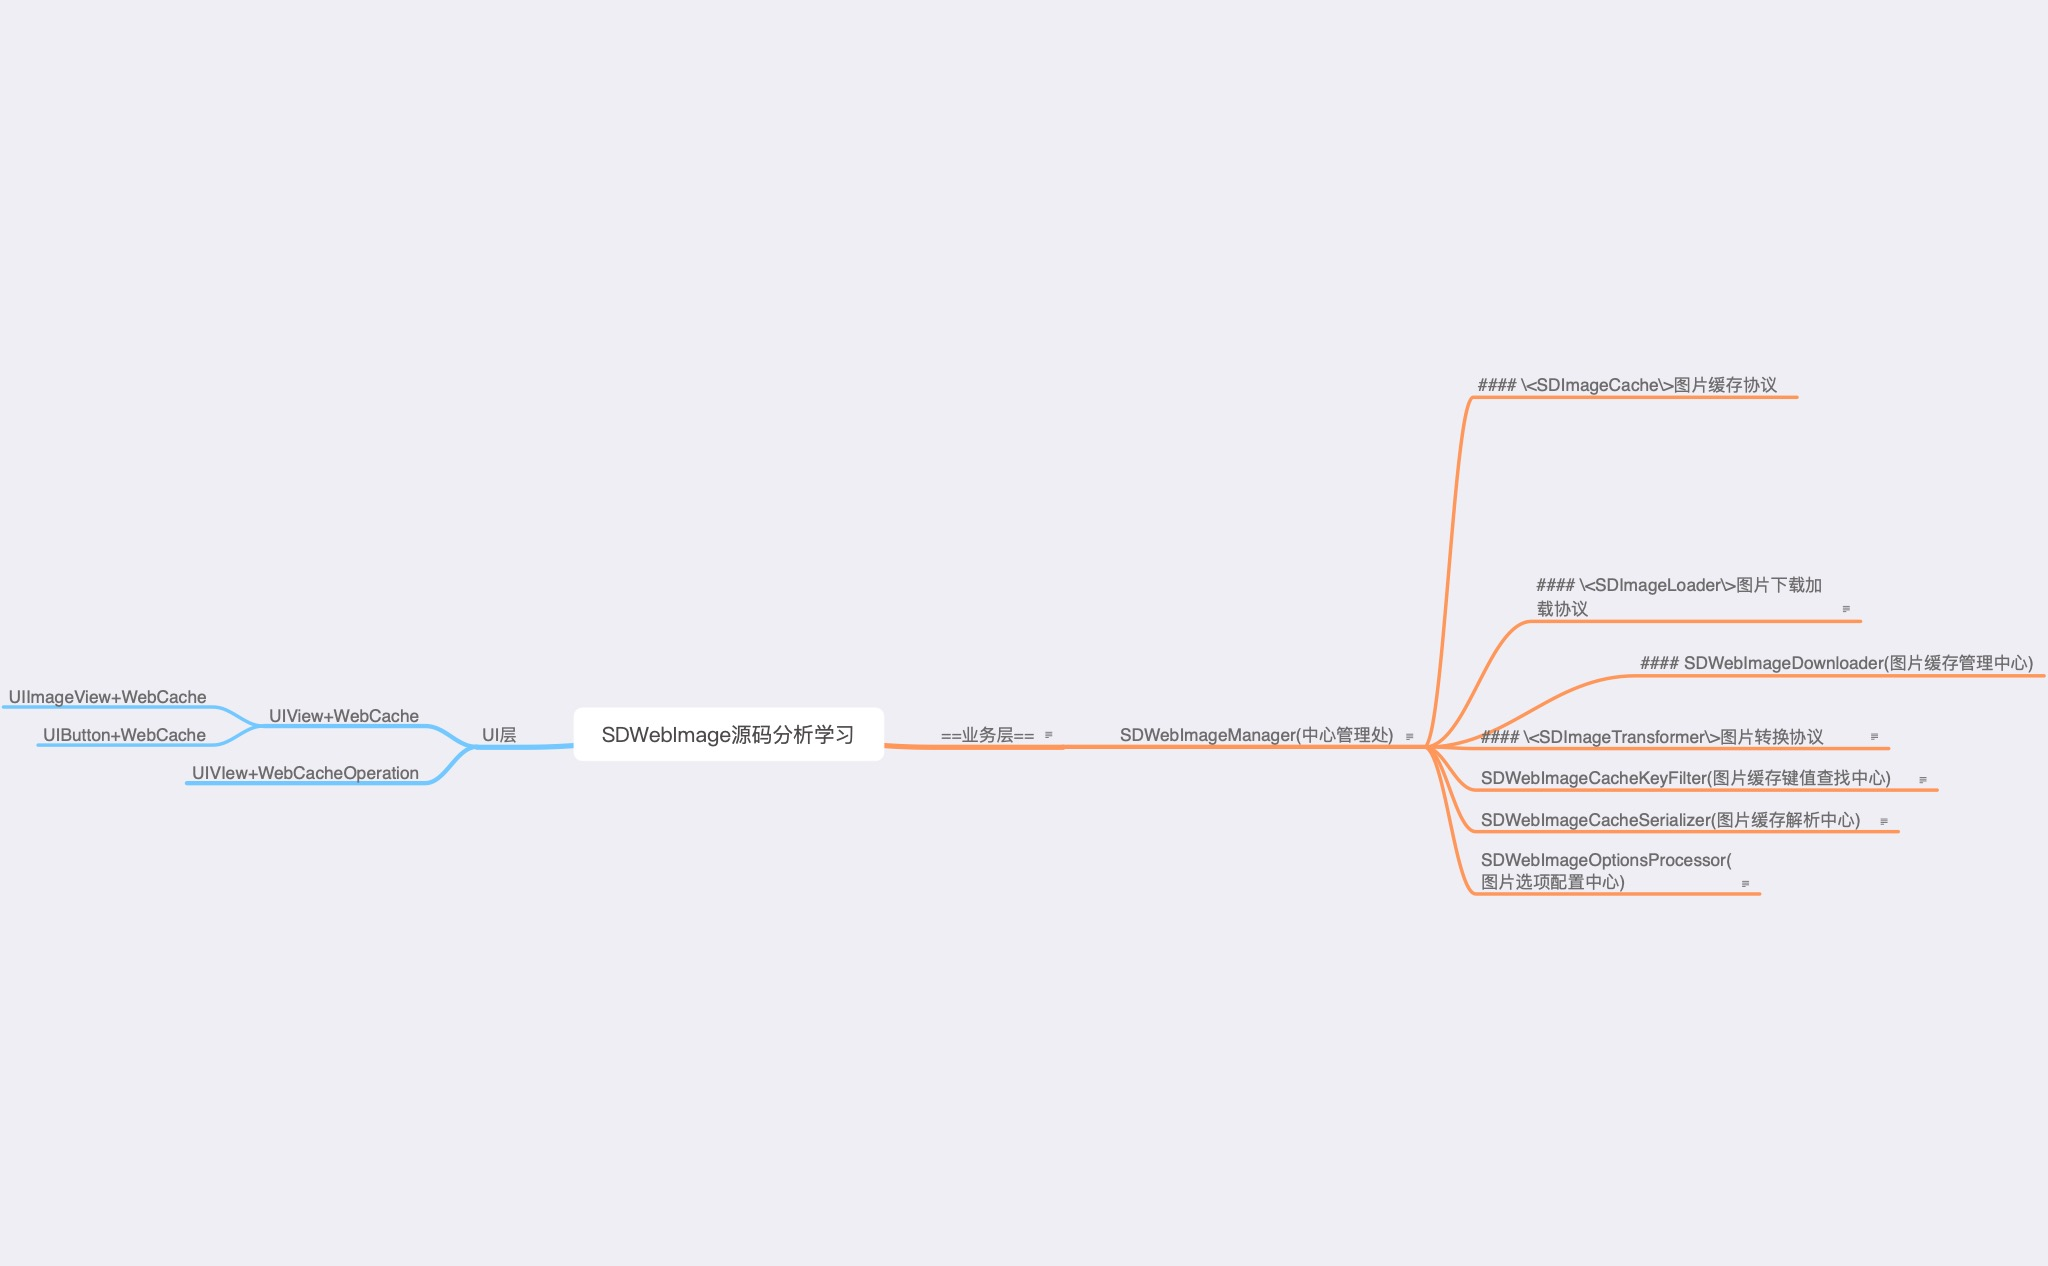
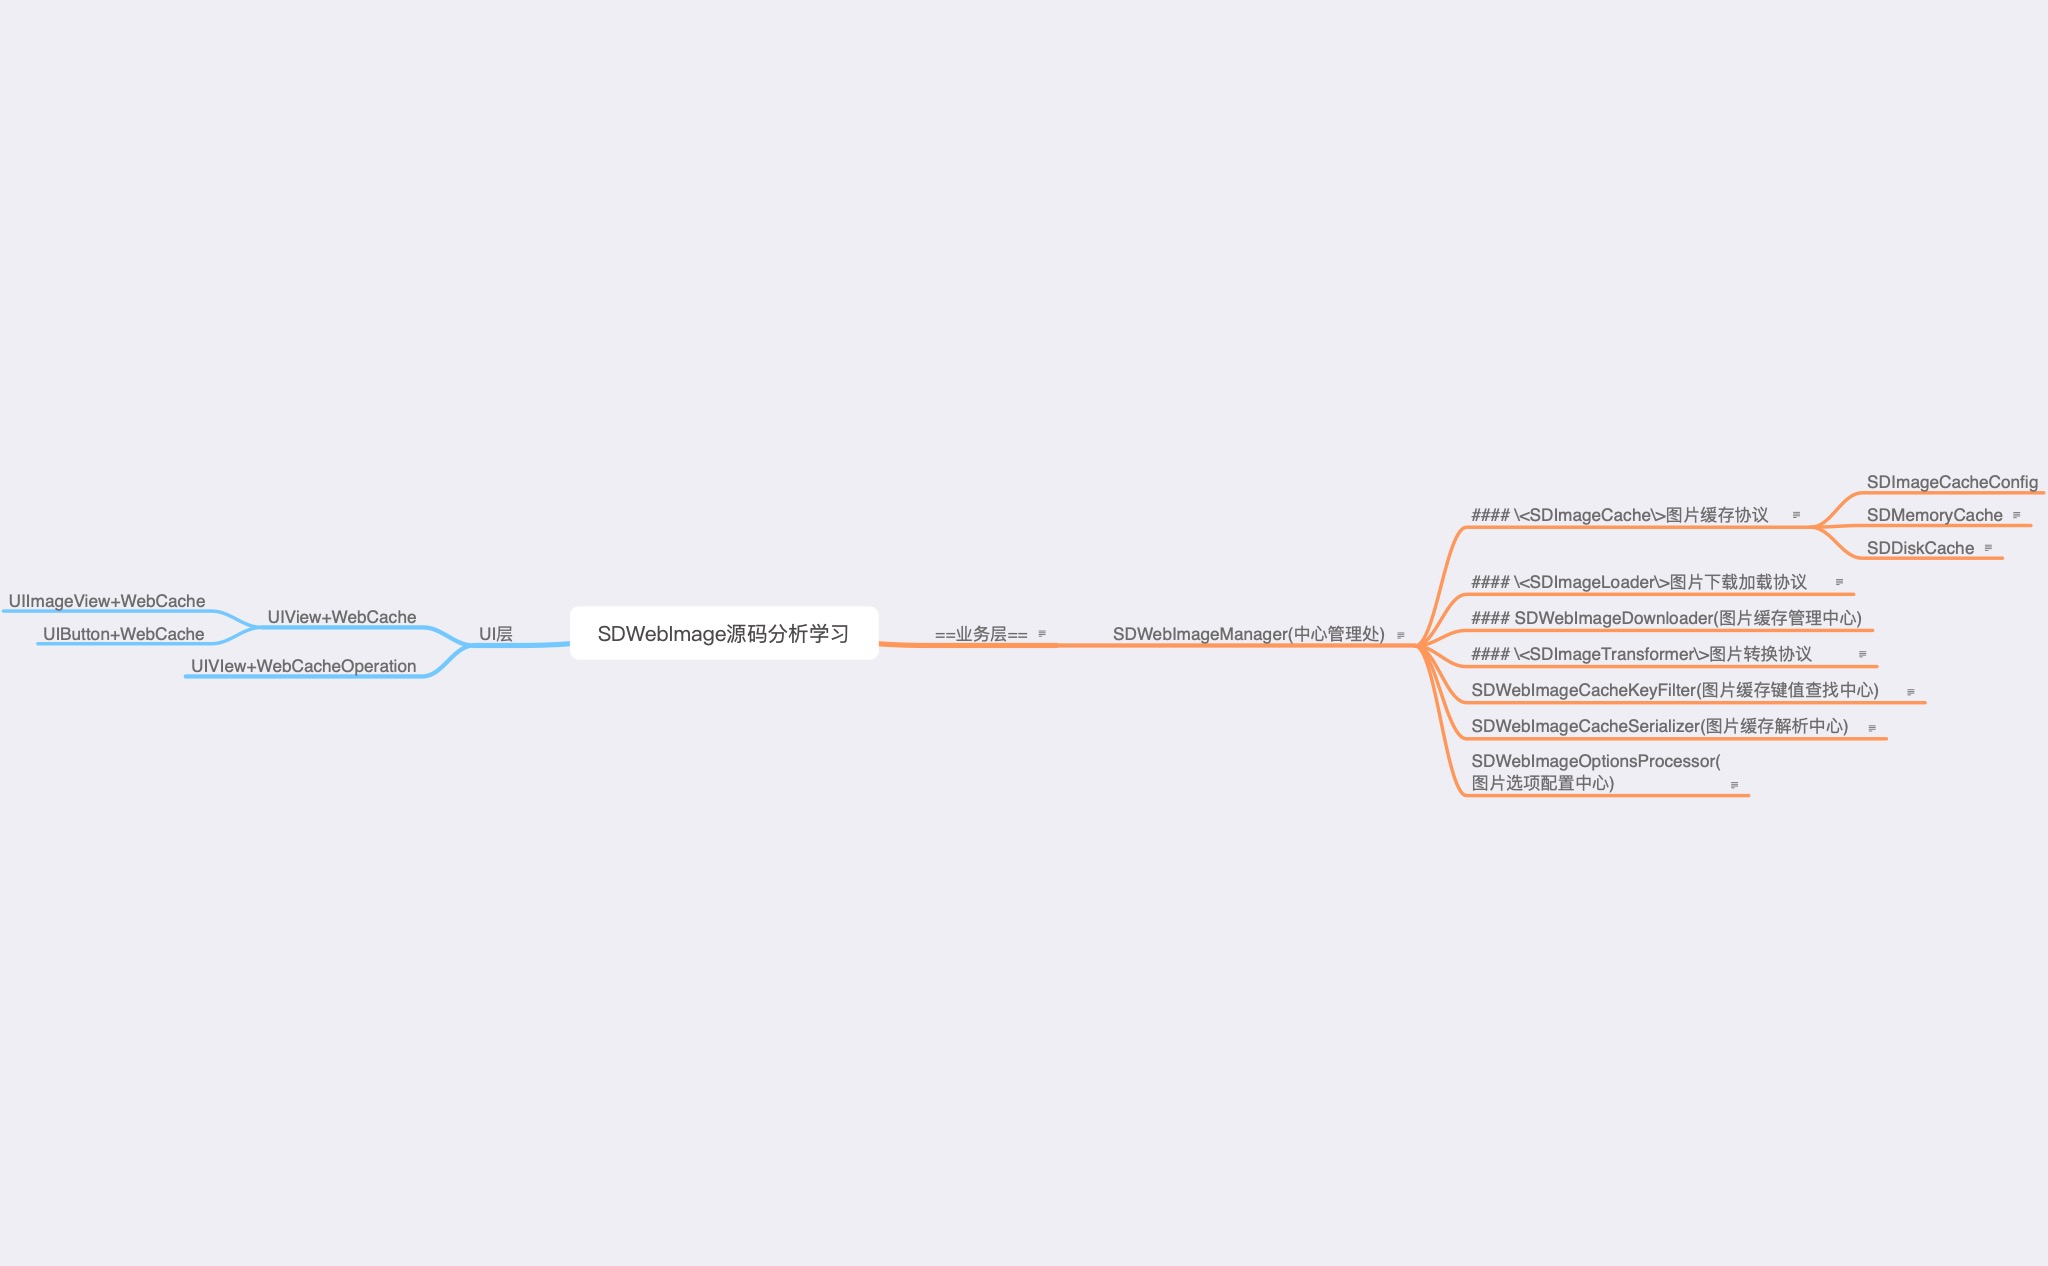
SDWebImage 缓存模块分析

diff --git a/常用开源库源码学习/SDWebImage源码分析/SDWebImage-master/SDWebImage/Core/SDDiskCache.m b/常用开源库源码学习/SDWebImage源码分析/SDWebImage-master/SDWebImage/Core/SDDiskCache.m
@@ -85,7 +85,7 @@
     NSString *cachePathForKey = [self cachePathForKey:key];
     // transform to NSUrl
     NSURL *fileURL = [NSURL fileURLWithPath:cachePathForKey];
-    
+        
     [data writeToURL:fileURL options:self.config.diskCacheWritingOptions error:nil];
     
     // disable iCloud backup

diff --git a/常用开源库源码学习/SDWebImage源码分析/SDWebImage源码分析学习.md b/常用开源库源码学习/SDWebImage源码分析/SDWebImage源码分析学习.md
@@ -30,13 +30,75 @@
 
 `SDWebImageManager`是隐藏在UI层后面的。用于联系`异步下载器`(SDWebImageDownloader)和`图片缓存器(SDImageCache)`
 
-- #### \<SDImageLoader\>图片下载加载协议
-  提供当前`manager`去加载图片
-
-- #### SDWebImageDownloader(图片缓存管理中心)
-
 - #### \<SDImageCache\>图片缓存协议
+  `SDImageCache`的协议声明在`SDImageCacheDefine`里面。<br>  
     
+  主要声明了增删改查等几类方法：  
+    
+  ````  
+  /* ———————定义了提供给SDWebImageManager使用的接口———— */  
+    
+  ///主要提供给SDWebImageManager使用，在内存+磁盘中进行缓存查询  
+  - (nullable id<SDWebImageOperation>)queryImageForKey:(nullable NSString *)key  
+                                               options:(SDWebImageOptions)options  
+                                               context:(nullable SDWebImageContext *)context  
+                                            completion:(nullable SDImageCacheQueryCompletionBlock)completionBlock;  
+    
+  ///用于SDWebImageManger下载图片后，进行缓存操作  
+  - (void)storeImage:(nullable UIImage *)image  
+           imageData:(nullable NSData *)imageData  
+              forKey:(nullable NSString *)key  
+           cacheType:(SDImageCacheType)cacheType  
+          completion:(nullable SDWebImageNoParamsBlock)completionBlock;  
+    
+    
+  ///指定key和缓存类型进行缓存图片移除  
+  - (void)removeImageForKey:(nullable NSString *)key  
+                  cacheType:(SDImageCacheType)cacheType  
+                 completion:(nullable SDWebImageNoParamsBlock)completionBlock;  
+    
+  ///查找key和指定缓存是否存在图片韩村  
+  - (void)containsImageForKey:(nullable NSString *)key  
+                    cacheType:(SDImageCacheType)cacheType  
+                   completion:(nullable SDImageCacheContainsCompletionBlock)completionBlock;  
+    
+  ///清除指定类型的缓存  
+  - (void)clearWithCacheType:(SDImageCacheType)cacheType  
+                  completion:(nullable SDWebImageNoParamsBlock)completionBlock;  
+    
+    
+  ````  
+    
+    
+  `SDImageCache`对象，实现了`SDImageCache`的协议，提供了缓存的增删改查的接口。同时也整合了`SDMemoryCache`,`SDDiskCache`。  
+  借着持有`SDMemoryCache`和`SDDiskCache`的对象，将先内存查找，再到磁盘查找的流程封装起来。并且也能根据查找类型，对查找流程进行拆分。同理也对图片的保存进行流程的封装已经每一步拆分。
+
+	- SDImageCacheConfig
+
+	- SDMemoryCache
+	  `SDMemoryCache`声明了一个协议去定义管理缓存的方法。<br>  
+	  同时`SDMemoryCache`类是继承`NSCache`及遵循`SDMemoryCache`协议的。<br>  
+	    
+	  关于`SDMemoryCache`继承于`NSCache`有几个要点：  
+	  1.`NSCache`是类似`NSDictionary`也是一个哈希表啊的结构  
+	  2.`NSCache`多了个线程安全的特性，这样就不用自己管理锁  
+	  3.`NSCache`会在系统内存低的时候会驱逐一些缓存内的对象  
+	  4.`NSCache`的key不要实现`NSCopying`的方式
+
+	- SDDiskCache
+	  `SDDiskCache`定义了管理磁盘缓存方法的协议。<br>  
+	    
+	  磁盘缓存管理主要分两部分，一个是存储，一个缓存管理。<br>  
+	    
+	  存储:<br>  
+	  1.使用`NSFileManager`进行文件的存取  
+	  2.文件名由于容易重复，这里使用了`MD5`计算得到文件名  
+	    
+	  缓存管理:<br>  
+	  1.默认是对在磁盘上存在一周以上的内容进行清除(策略一：创建时间；策略二：最后修改时间)  
+	  2.如果磁盘上缓存空间大于设置空间的一半，就会按照创建时间，开始循环删除，直到空间大小满足要求。（默认是0）
+
+- #### \<SDImageLoader\>图片下载加载协议
   ````  
     
   定义了C语言的图片解码接口  
@@ -73,6 +135,8 @@
                                 error:(nonnull NSError *)error;  
     
   ````
+
+- #### SDWebImageDownloader(图片缓存管理中心)
 
 - #### \<SDImageTransformer\>图片转换协议
   	提供图片在加载完之后的转换和存储转换好的图片到缓存中。
